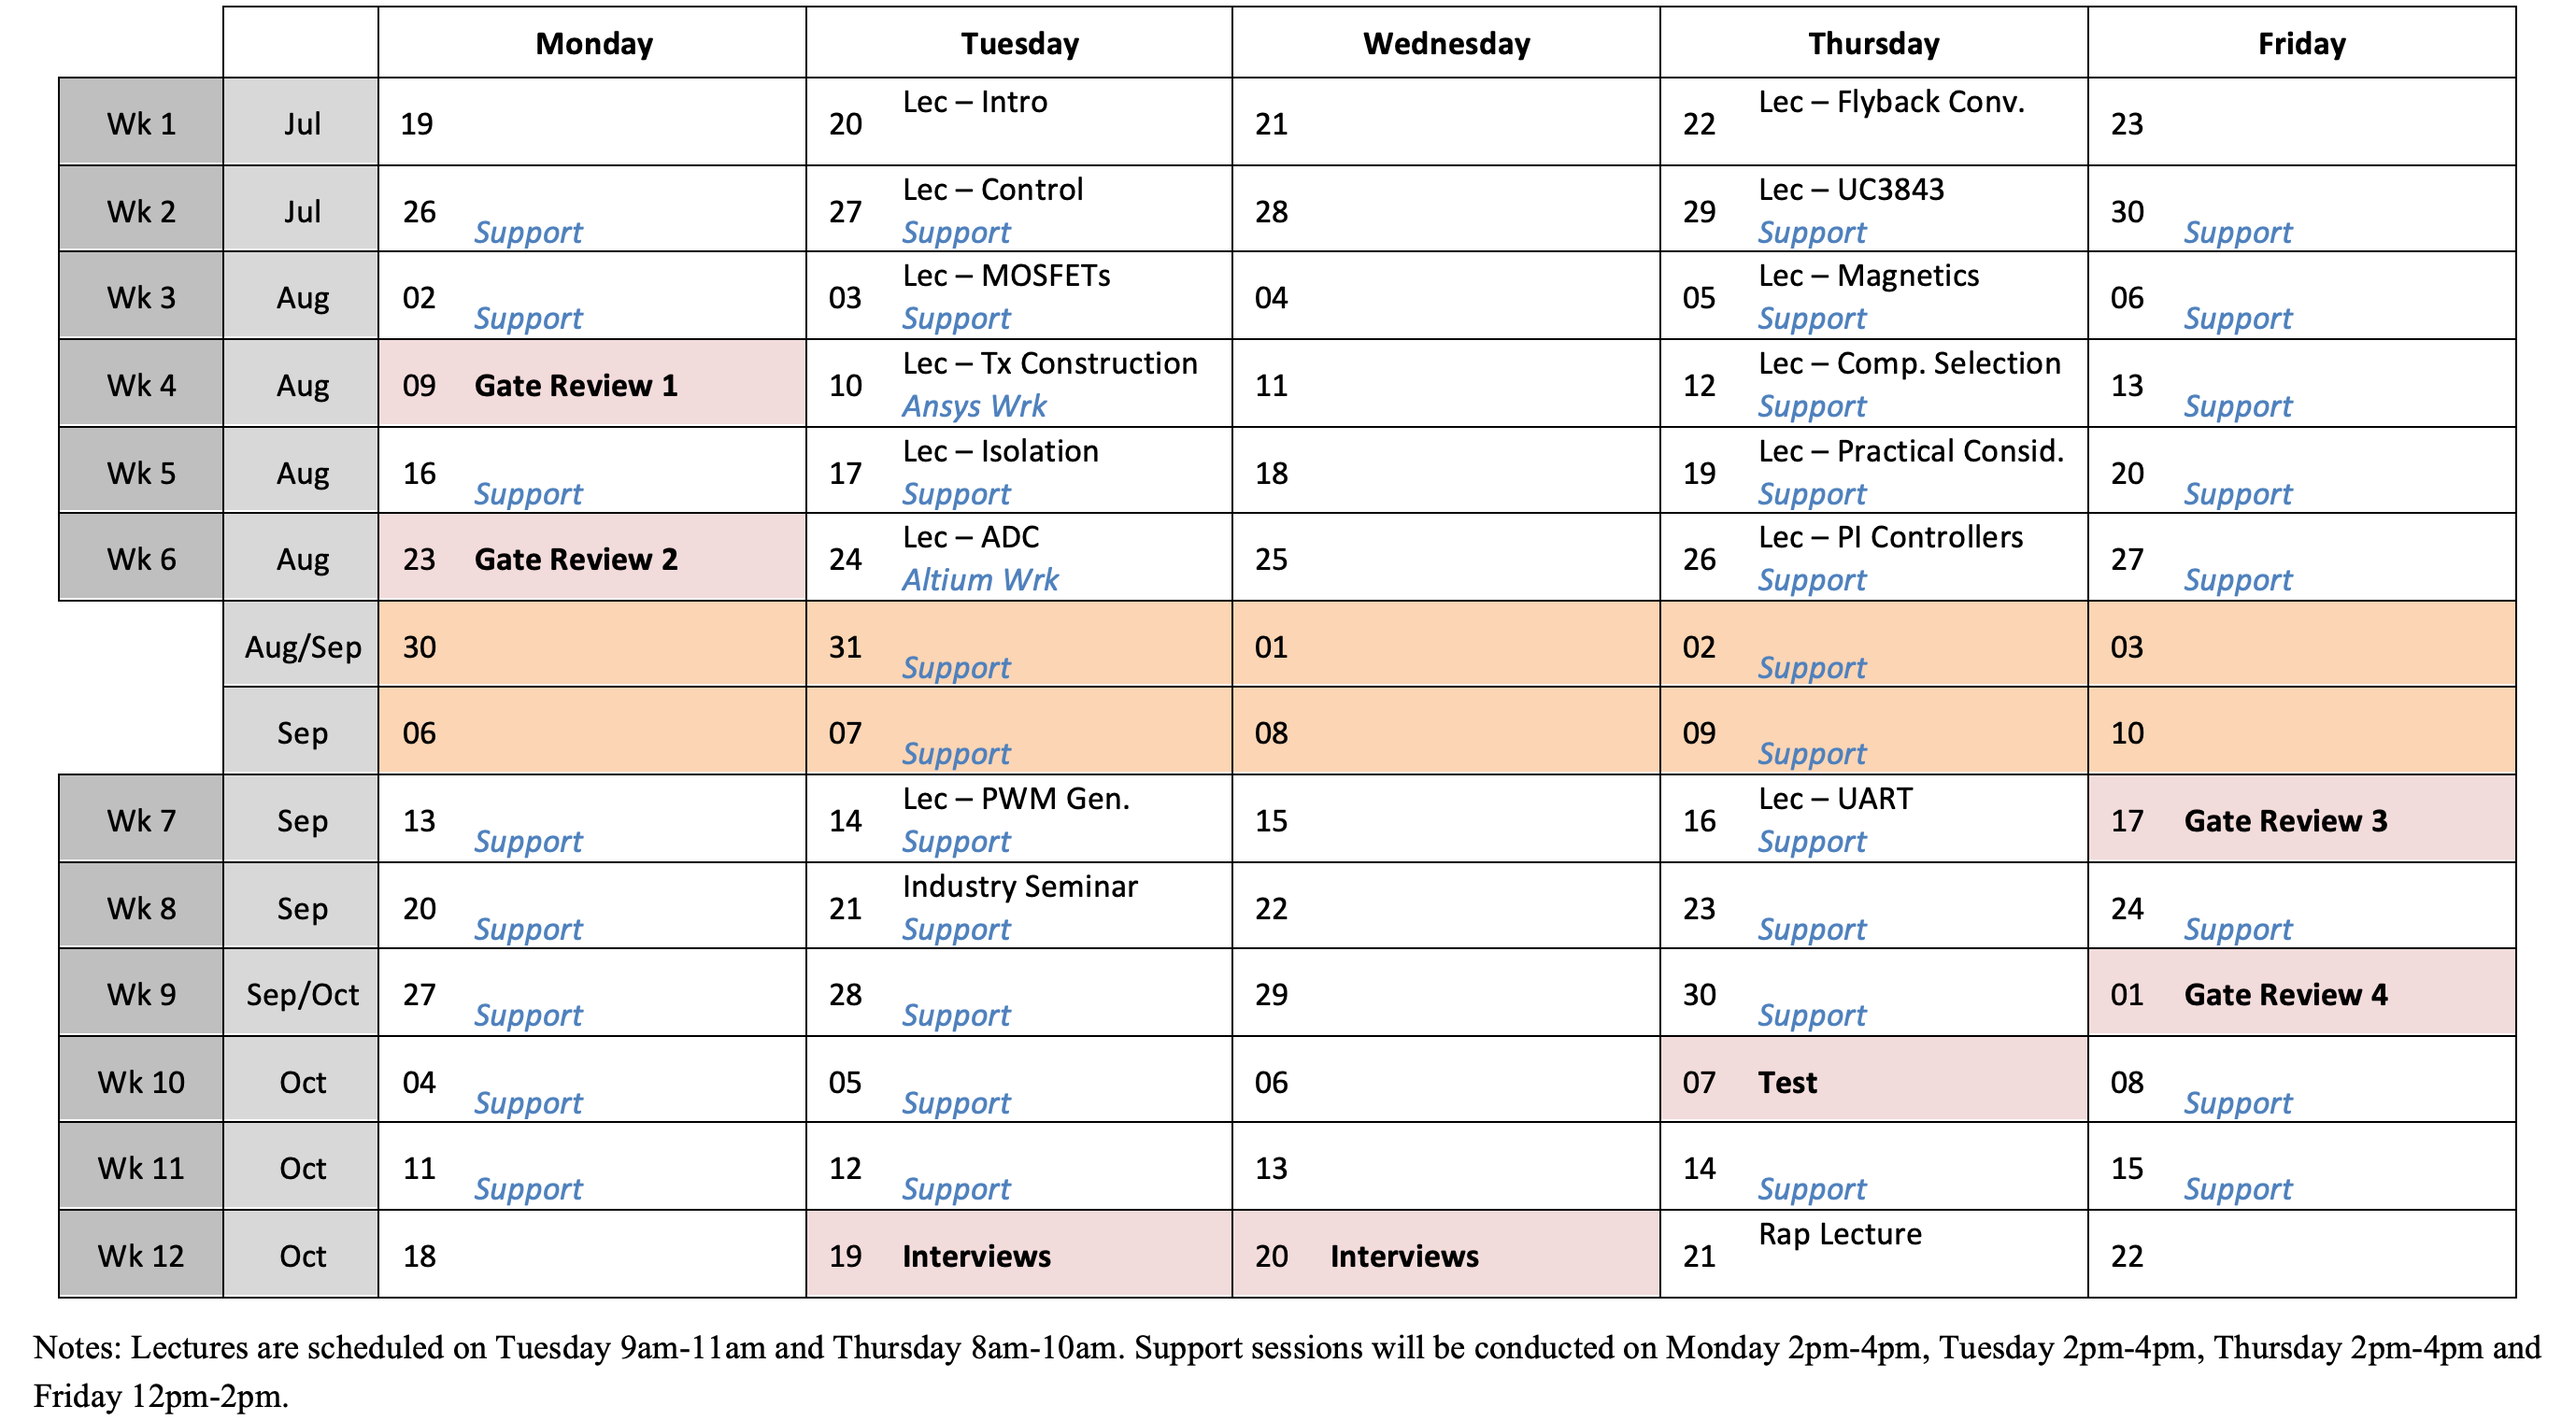
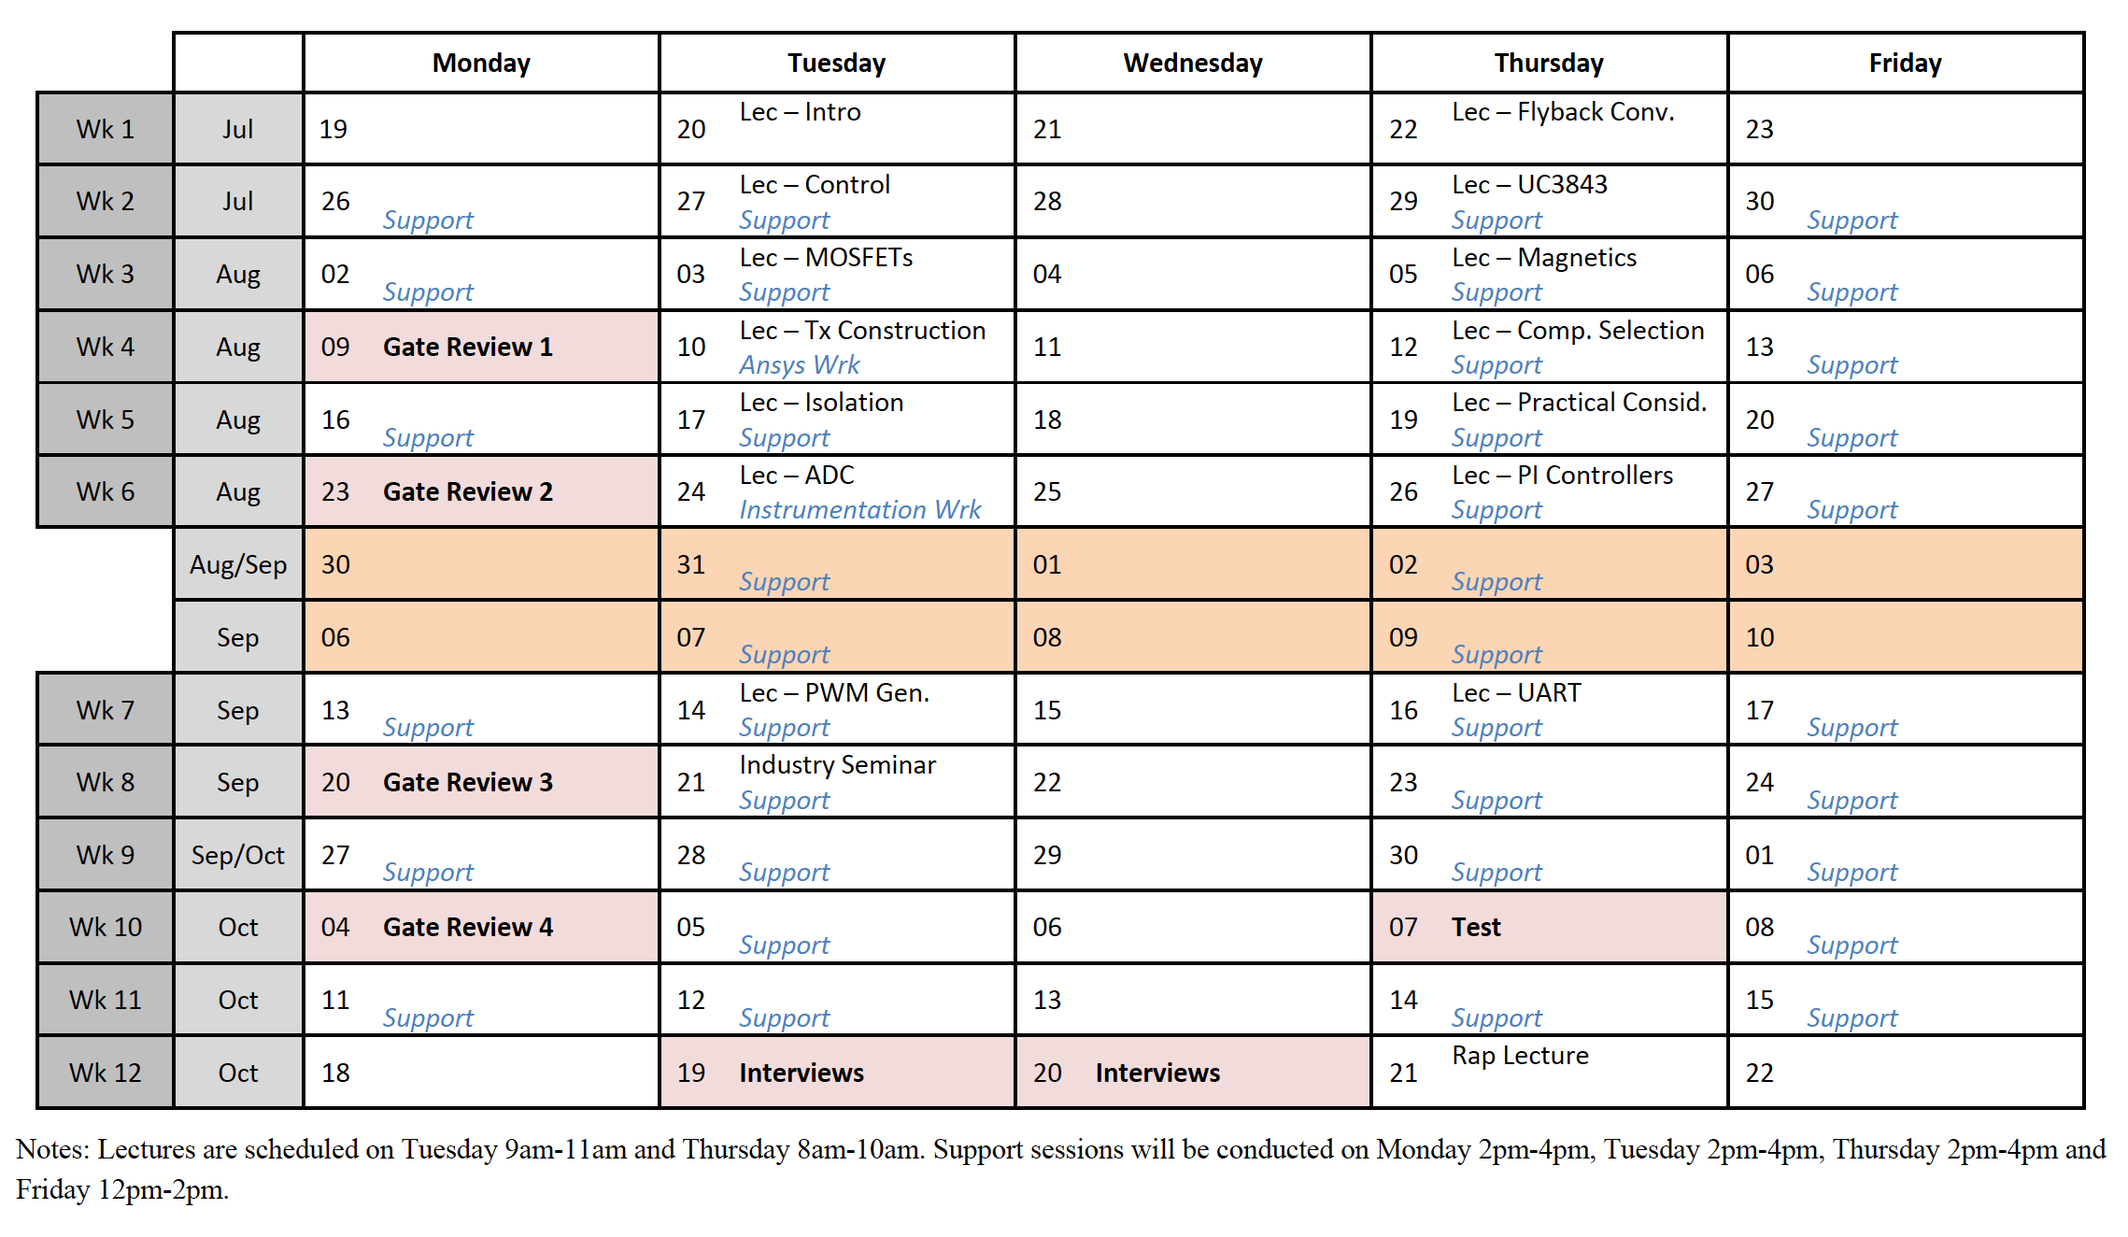
edited to remove PCB design aspect

Changed region(s): [[0.0, 0.0, 0.9974, 0.9909], [0.9662, 0.031, 0.9974, 0.3097]]

diff --git a/presentations/intro/presentation.html b/presentations/intro/presentation.html
@@ -506,7 +506,7 @@ name: S16
     </tr>
     <tr>
       <td class="tg-sabo">Isolation Rating</td>
-      <td class="tg-sabo">1000 V</td>
+      <td class="tg-sabo"> 500 V or more</td>
     </tr>
     <tr>
       <td class="tg-ig71">Over Voltage Protection</td>
@@ -527,10 +527,6 @@ name: S16
     <tr>
       <td class="tg-jayl">PCB Technology</td>
       <td class="tg-jayl">Double Layer with PTH</td>
-    </tr>
-    <tr>
-      <td class="tg-096r">Maximum Prototype Size</td>
-      <td class="tg-096r">150 mm x 150 mm x 100mm</td>
     </tr>
   </tbody>
 </table>
@@ -690,7 +686,7 @@ name: S24
 - The 4 gate reviews are to guide you through the design and make sure you complete critical tasks on time
  - Basic design calculations and a working simulation of your converter are due by 1<sup>st</sup> review  
  - Transformer design, Ansys model and experimental validation of transformer are due by 2<sup>nd</sup> review
- - Open-loop hardware validation, final design calculations and the PCB designs are due by 3<sup>rd</sup> review
+ - Final design calculations and open-loop hardware validation are due by 3<sup>rd</sup> review
  - Implementation of the closed-loop controller and its experimental validation are due by 4<sup>th</sup> review
  - We will check the completion of each task (2%), your understanding (2%) as well as the use of logbook/Trello, GitHub and Slack to plan, manage and document the work (1%)
 
@@ -716,7 +712,7 @@ name: S26
 
 - The optional *Design Challenges* are focused on implementing the following useful features 
  - Constant current limiting where user can set the maximum current limit
- - USB-C PD interface using a STUSB4500 IC to derive the 20V input to the converter 
+ - Compact PCB design with onboard MCU and smaller EFD20 based transformer 
  - A GUI to control the power supply and display useful information
 - Before attempting the *Design Challenges* you must complete all other tasks
  - Up to 2 bonus marks awarded for successfully completing each task (capped at 4%)
@@ -777,10 +773,11 @@ name: S30
 # Building a Prototype
 
 - This is a design project and you are expected to develop a hardware prototype 
- - This includes developing a PCB, building a prototype, testing hardware, etc.
-- We will provide resources and tools to get started on the project before you get to the stage of building your own prototype circuitry
+ - This includes building a prototype, testing hardware, rework, etc.
+- We will provide resources and tools to get started on the project 
  - You can use Proteus VSM and the Xplained Mini development boards to develop and validate most of your firmware
- - We will provide a hardware kit where you can attach your transformer and the Xplained Mini for further debugging and validation of your design
+ - We will provide a generic PCB and a Xplained Mini to experimentally validate your design
+ - Developing you own PCB and a prototype is an optional bonus task
 - The lab benches in MDLS E&I labs will be equipped with suitable bench-top equipment 
  - MDLS E&I 2 is booked specifically for this course during times shown on the planner 
 - You are expected to work from MDLS E&I 2 with your team during the dedicated support sessions
@@ -995,6 +992,11 @@ name: S44
  - Settling time: Time taken for output of power supply to settle as operating conditions change
  - Protection features: Under/over voltage, current limiting, over temperature, short-circuit, etc.
 - You are expected to develop a set of specifications for the power supply you will design  
+
+---
+
+test
+<iframe src="https://everycircuit.com/embed/4874101090680832" width="900" height="400" frameborder="0"></iframe> 
 
 ---
 
